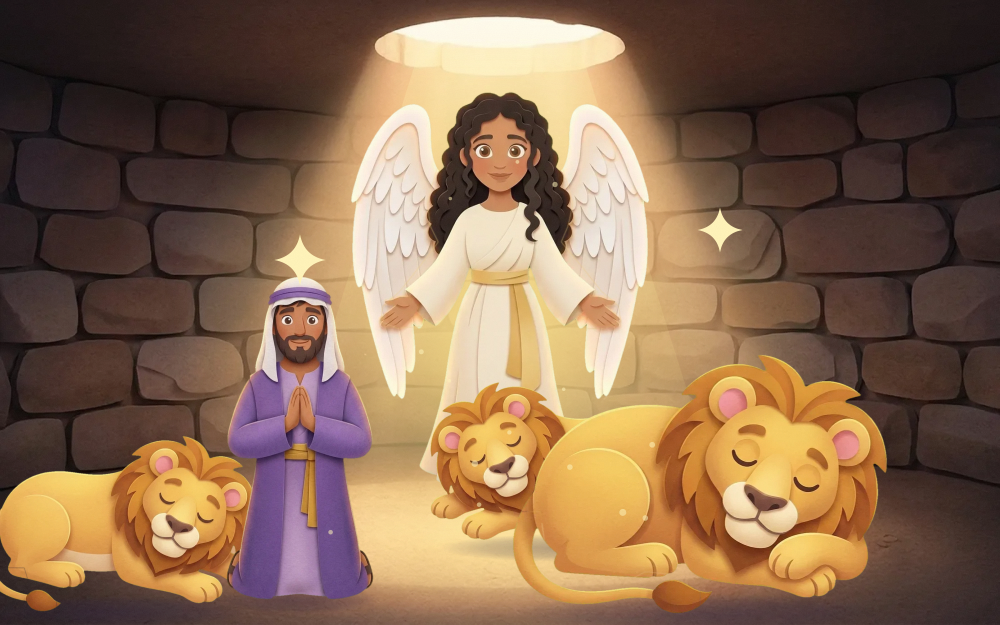
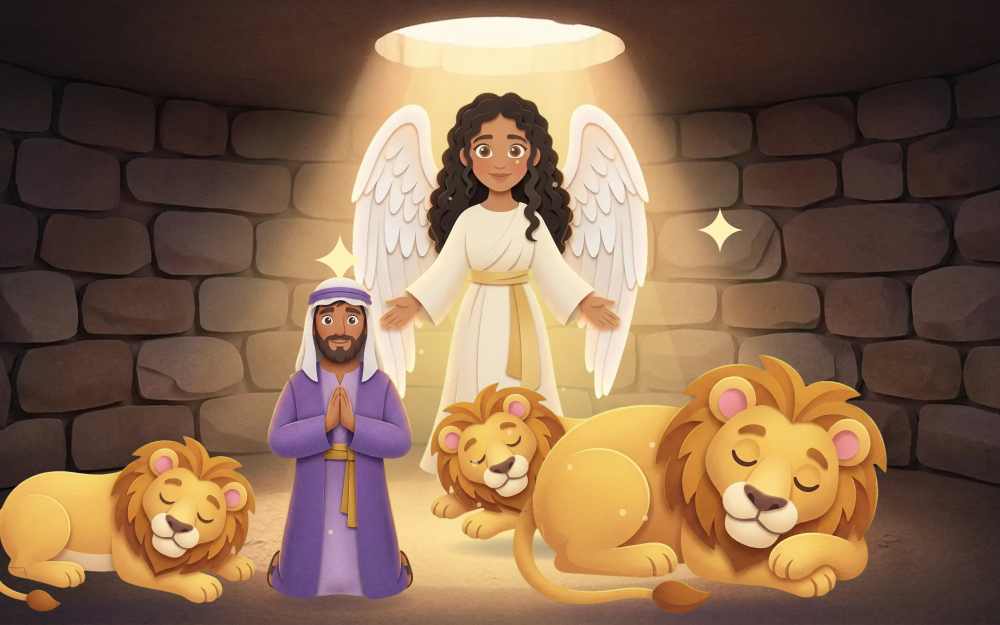
Daniel angel page: centre Daniel between the lions

Changed region(s): [[0.217, 0.3952, 0.434, 0.9728]]

diff --git a/src/scenes/daniel.tsx b/src/scenes/daniel.tsx
@@ -350,12 +350,12 @@ export function AngelShutsTheMouths({ found }: SceneArtProps) {
         ))}
         <Layer src={angelBody} w={L.angel.w} h={L.angel.h} x={500} y={496} scale={0.45} />
       </g>
-      <SoftShadow x={300} y={600} rx={80} ry={14} opacity={0.4} />
+      <SoftShadow x={340} y={600} rx={80} ry={14} opacity={0.4} />
       <Layer
         src={denDaniel}
         w={D.daniel.w}
         h={D.daniel.h}
-        x={300}
+        x={340}
         y={600}
         scale={0.36}
         className="a-breathe"
@@ -424,7 +424,7 @@ export function AngelShutsTheMouths({ found }: SceneArtProps) {
         className="a-breathe-slow"
       />
       <Motes x={500} top={110} bottom={540} spread={200} />
-      <Sparkle x={300} y={260} s={1.6} />
+      <Sparkle x={340} y={260} s={1.6} />
       <Sparkle x={720} y={230} s={1.4} delay={0.6} />
       {found.includes("lions") && <Sparkle x={700} y={500} s={1.6} delay={0.3} />}
       <Grain opacity={0.05} />

diff --git a/docs/evidence/2026-09-18-angel-wings/record.md b/docs/evidence/2026-09-18-angel-wings/record.md
@@ -69,3 +69,7 @@ drawn before Daniel so he covers its head, own shadow, tail flick delay
 3.5 s, breathe delay 1.2 s. No new art. Full-size render
 `angel-three-lions-render.png` (`npm run compare`); motion check, tests and
 build through the hook.
+Then, on request, Daniel moved from x 300 to x 340 (shadow and sparkle with
+him) to sit centred between the left lion's head and the middle lion; no
+hotspot sits on Daniel on this page, so story data is unchanged.
+`angel-three-lions-render.png` is the final render.
